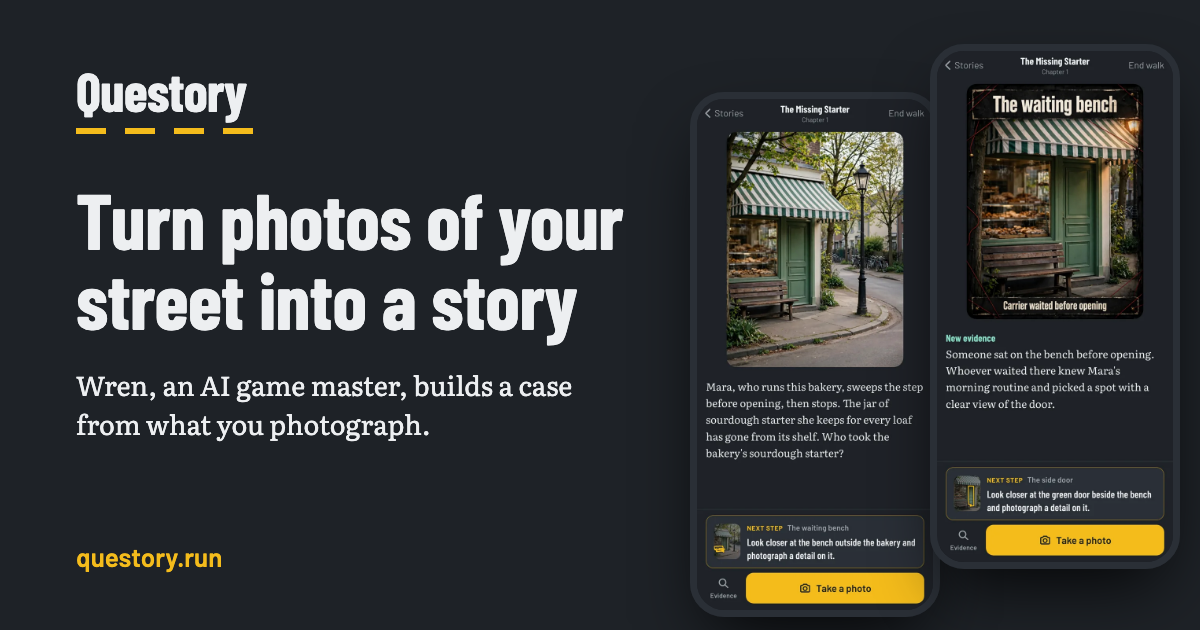
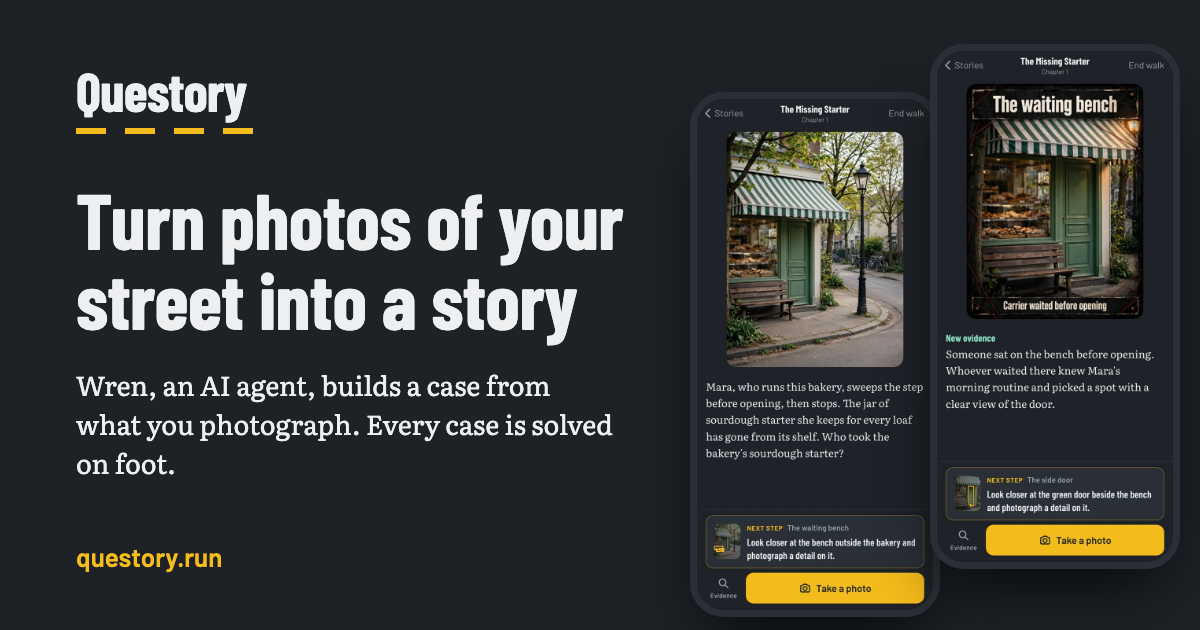
Call Wren an AI agent, define the game's terms, and show why it's played on foot
Wren is an AI agent in public text now, since "game master" is a gaming term. The
landing page and README add "Every case is solved on foot.", and the landing page
gets a Why on foot section: 31% of adults didn't get enough physical activity in
2022, and Pokémon GO's extra steps wore off within six weeks.

The pages say what a case, a turn, a piece of evidence and a lead are when they first
come up. Muse Spark, SAM 3.1 and Muse Image are Wren's subagents, in the README's
model table and on the diagram. The README's privacy notes say Meta may use what
it receives, as the Privacy page does. The link preview is drawn again with the new
line.

Changed region(s): [[0.0617, 0.6635, 0.5242, 0.6937], [0.185, 0.6032, 0.4933, 0.6333], [0.0617, 0.7238, 0.1542, 0.754]]

diff --git a/app/page.tsx b/app/page.tsx
@@ -11,19 +11,19 @@ const MOMENTS = [
     src: "/landing/opening.webp",
     alt: "A photo of a bakery on a street corner, with the opening of a case below it: the bakery's sourdough starter has gone, and the next step is a closer look at the bench outside.",
     title: "Your street starts the case",
-    text: "Take a photo of where you are, even indoors. Wren writes the opening around it, and then leads you outside.",
+    text: "Take a photo of where you are, even indoors. Wren turns it into the start of a case, then leads you outside.",
   },
   {
     src: "/landing/evidence.webp",
     alt: "The photo redrawn as an evidence card called The waiting bench, with Wren's note that someone sat there before the bakery opened.",
     title: "Follow the quests",
-    text: "A quest asks for a closer look, or sends you a short walk away. When your photo turns up something new, it becomes a piece of evidence.",
+    text: "Each quest asks for a photo of something, up close or a short walk away. A photo that moves the case forward becomes a piece of evidence.",
   },
   {
     src: "/landing/case.webp",
     alt: "The case so far: two pieces of evidence found, and ten more to find before the answer.",
     title: "Solve the case",
-    text: "Collect the evidence as you go, until it points to the answer.",
+    text: "Collect evidence over a few walks, until it points to the answer.",
   },
 ];
 
@@ -57,6 +57,12 @@ function Moment({ src, alt, title, text, number, delay }: (typeof MOMENTS)[numbe
   );
 }
 
+/** Why a game you play on foot, with the studies behind it. */
+const WHY = [
+  { value: "31%", label: "of adults worldwide didn't get enough physical activity in 2022." },
+  { value: "6 weeks", label: "until the extra steps from Pokémon GO wore off." },
+];
+
 const ROW =
   "-mx-4 mt-8 flex snap-x snap-mandatory gap-5 overflow-x-auto px-4 pb-4 md:mx-0 md:grid md:grid-cols-3 md:gap-10 md:overflow-visible md:px-0";
 
@@ -72,7 +78,7 @@ export default function Home() {
             Turn photos of your street into a story
           </h1>
           <p className="mt-5 max-w-xl font-story text-lg leading-relaxed md:text-xl">
-            Wren, an AI game master, builds a case from what you photograph.
+            Wren, an AI agent, builds a case from what you photograph. Every case is solved on foot.
           </p>
           <Link href="/play" className={`${BUTTON.primary} mt-7 w-full md:hidden`}>
             <CameraIcon className="h-6 w-6" />
@@ -96,14 +102,45 @@ export default function Home() {
         </ol>
       </section>
 
+      <section className="mt-14 md:mt-20" aria-labelledby="why-title">
+        <h2 id="why-title" className="font-sign text-2xl font-bold md:text-3xl">
+          Why on foot
+        </h2>
+        <div className="lane-line mt-3 w-24" aria-hidden="true" />
+        <dl className="mt-8 grid gap-3 sm:grid-cols-2 md:max-w-3xl md:gap-5">
+          {WHY.map((fact) => (
+            <div key={fact.value} className="flex flex-col rounded-[14px] bg-kerb px-5 py-4">
+              <dt className="order-2 mt-1 text-concrete text-pretty">{fact.label}</dt>
+              <dd className="order-1 font-sign text-5xl leading-none font-bold">{fact.value}</dd>
+            </div>
+          ))}
+        </dl>
+        <p className="mt-6 max-w-xl text-lg text-pretty">
+          A game can get people walking, but the effect fades within weeks. A Questory case runs over several walks, so
+          there&apos;s a reason to go out again. It&apos;s for anyone who would walk more with a reason to, alone or with a
+          friend who lives somewhere else.
+        </p>
+        <p className="mt-3 max-w-xl text-sm text-concrete">
+          Sources: Strain et al.,{" "}
+          <a href="https://doi.org/10.1016/S2214-109X(24)00150-5" className="underline underline-offset-4 hover:text-paint">
+            Lancet Global Health
+          </a>
+          , 2024. Howe et al.,{" "}
+          <a href="https://doi.org/10.1136/bmj.i6270" className="underline underline-offset-4 hover:text-paint">
+            BMJ
+          </a>
+          , 2016.
+        </p>
+      </section>
+
       <section className="mt-14 md:mt-20" aria-labelledby="friend-title">
         <h2 id="friend-title" className="font-sign text-2xl font-bold md:text-3xl">
           Play with a friend
         </h2>
         <div className="lane-line mt-3 w-24" aria-hidden="true" />
         <p className="mt-6 max-w-xl text-lg">
-          A case can have two players. You each follow your own lead on your own walk, and the evidence comes together
-          in one case.
+          A case can have two players. You each get a lead, your own trail of evidence to follow on your own walk, and
+          both trails end at the same answer.
         </p>
         <ul className={ROW}>
           {TOGETHER.map((moment) => (

diff --git a/app/how-it-works/page.tsx b/app/how-it-works/page.tsx
@@ -56,20 +56,21 @@ export default function HowItWorks() {
 
       <h1 className="mt-10 font-sign text-[2.5rem] leading-[1.05] font-bold md:mt-14 md:text-6xl">How it works</h1>
       <p className="mt-5 max-w-2xl font-story text-lg leading-relaxed md:text-xl">
-        Questory is a game you play on a walk. Wren, its game master, is an AI agent: it builds a case from your photos
-        and sends you out to find the evidence.
+        Questory is a game you play on a walk. Wren is the AI agent that runs it: it builds a case from your photos and
+        sends you out to find the evidence.
       </p>
 
       <section className="mt-12 md:mt-16" aria-labelledby="loop-title">
         <Heading id="loop-title">The game loop</Heading>
         <p className={TEXT}>
-          Each turn starts with a photo. Wren reads it, tells you what it means for the case and gives you a quest. A
-          quest asks for a closer look at something in your photo, or sends you a block or two away to find something.
-          Your photo of it starts the next turn.
+          The game is played in turns, and each turn is one photo. You take a photo, and Wren tells you what it means for
+          the case and gives you a quest: something to photograph next, up close or a block or two away. Your photo of it
+          starts the next turn.
         </p>
         <p className={TEXT}>
-          A photo that answers a quest becomes a piece of evidence, and the evidence leads to the answer. A case has
-          multiple chapters. You can stop after any photo, and your next photo picks the story up wherever you are.
+          A photo that moves the case forward becomes a piece of evidence, and the evidence leads to the answer. A case
+          has a few chapters, and finishing one ends your walk. You can stop after any photo, and your next photo picks
+          the story up wherever you are.
         </p>
       </section>
 
@@ -85,9 +86,9 @@ export default function HowItWorks() {
           what you found.
         </p>
         <p className={TEXT}>
-          Three other models work with Wren. Muse Spark checks Wren&apos;s lines against your photo and takes out
-          anything the photo doesn&apos;t show. Wren uses the other two as tools: SAM 3.1 outlines what a closer-look
-          quest points at, and Muse Image paints the evidence from your photo.
+          Wren has three subagents, each a different Meta model with one job. Muse Spark checks Wren&apos;s lines
+          against your photo and takes out anything the photo doesn&apos;t show. SAM 3.1 outlines what a closer-look quest
+          points at. Muse Image paints the evidence from your photo.
         </p>
       </section>
 
@@ -130,8 +131,8 @@ export default function HowItWorks() {
       <section className="mt-14 md:mt-20" aria-labelledby="two-title">
         <Heading id="two-title">Two players</Heading>
         <p className={TEXT}>
-          A shared case has two leads that come at the answer from different sides, such as how it was done and who
-          could have done it. Each player follows one lead without waiting for the other. Wren sees what both have found
+          A shared case has two leads, two trails of evidence that come at the answer from different sides, such as how
+          it was done and who could have done it. Each player follows one lead without waiting for the other. Wren sees what both have found
           and mentions a partner&apos;s find when it changes what yours means. A chapter&apos;s ending is written from
           everything both players found. Turns are saved under a short per-story lock, so two photos sent at once both
           count. If your friend hasn&apos;t joined by the time your part is done, you can play their lead too.

diff --git a/components/TurnDiagram.tsx b/components/TurnDiagram.tsx
@@ -23,8 +23,8 @@ const STOPS: { boxes: Box[]; memory?: boolean; loop?: boolean }[] = [
   },
   {
     boxes: [
-      { kicker: "Photo check", title: "Muse Spark", text: `Takes out anything ${GAME_MASTER} describes that the photo doesn't show.` },
-      { kicker: "Where to look", title: "SAM 3.1", text: "Outlines what a closer-look quest points at." },
+      { kicker: "Subagent", title: "Muse Spark", text: `Takes out anything ${GAME_MASTER} describes that the photo doesn't show.` },
+      { kicker: "Subagent", title: "SAM 3.1", text: "Outlines what a closer-look quest points at." },
     ],
   },
   {
@@ -32,14 +32,14 @@ const STOPS: { boxes: Box[]; memory?: boolean; loop?: boolean }[] = [
     loop: true,
     boxes: [
       {
-        kicker: "Saved",
+        kicker: "Memory",
         title: "Story memory",
         text: "The hidden plan, which real thing is which, and the facts so far.",
       },
     ],
   },
   {
-    boxes: [{ kicker: "Evidence", title: "Muse Image", text: "When the photo turns up evidence, paints it from your photo." }],
+    boxes: [{ kicker: "Subagent", title: "Muse Image", text: "When the photo turns up evidence, paints it from your photo." }],
   },
 ];
 

diff --git a/lib/site.ts b/lib/site.ts
@@ -3,7 +3,7 @@ import type { Metadata } from "next";
 export const GITHUB_URL = "https://github.com/QiaoyuYang/questory";
 
 export const SITE_DESCRIPTION =
-  "Turn photos of your street into a story. An AI game master builds a case from what you photograph.";
+  "Turn photos of your street into a story. An AI agent builds a case from what you photograph, and every case is solved on foot.";
 
 const PREVIEW_IMAGE = {
   url: "/link-preview.png",

diff --git a/README.md b/README.md
@@ -4,7 +4,7 @@
 
 **Turn photos of your street into a story.**
 
-Wren, an AI game master, builds a case from what you photograph.
+Wren, an AI agent, builds a case from what you photograph. Every case is solved on foot.
 
 Play at [questory.run](https://questory.run)
 
@@ -20,27 +20,31 @@ Questory is made for phones. Open [questory.run](https://questory.run) on your p
 
 ## How to play
 
+A case is a question with a hidden answer, like where a bakery's sourdough starter went. You solve it by photographing what Wren asks for.
+
 1. Pick a theme for the story.
 2. Take a photo of where you are. Wren writes the opening of the case around it, then leads you outside if you aren't already.
-3. Follow the quests to find evidence. A quest asks for a closer look at something in your last photo, or sends you a block or two away to find something.
-4. Collect evidence until it points to the answer. A case has multiple chapters. You can stop at any time, and your next photo picks the story up wherever you are.
+3. Follow the quests to find evidence. A quest asks for a closer look at something in your last photo, or sends you a block or two away to find something. A photo that moves the case forward becomes a piece of evidence.
+4. Collect evidence until it points to the answer. A case has multiple chapters, and finishing one ends your walk. You can stop at any time, and your next photo picks the story up wherever you are.
 
-To play with a friend, choose "With a friend" and send them the link. You each follow your own lead on your own walk, at the same time or not, and a chapter ends once you have both finished your part.
+To play with a friend, choose "With a friend" and send them the link. The case gets two leads, one for each of you: two trails of evidence that end at the same answer. You each follow yours on your own walk, at the same time or not, and a chapter ends once you have both finished your part.
 
 ## How it works
 
-Wren is an AI agent. It plans each case, reads every photo with what it remembers of the story, decides what happens next and changes its plan when your photos stop fitting it. Wren can't walk, so you do, and its quests say where to look.
+Wren is an AI agent. It plans each case, reads every photo with what it remembers of the story, decides what happens next and changes its plan when your photos stop fitting it. Wren can't walk, so you do, and its quests say where to look. It has three subagents, each with one job.
 
 Questory is a Next.js 16 app that uses four models from the Meta Model API:
 
-| Model | Used for |
-| :--- | :--- |
-| Muse Wonder | Wren itself: planning the case, reading each photo and writing the story and quests |
-| Muse Spark | Checking Wren's lines against the photo |
-| SAM 3.1 | Outlining what a closer-look quest points at |
-| Muse Image | Redrawing photos that turn up evidence as evidence cards |
+| Model | Role | Used for |
+| :--- | :--- | :--- |
+| Muse Wonder | Agent | Wren itself: planning the case, reading each photo and writing the story and quests |
+| Muse Spark | Subagent | Checking Wren's lines against the photo |
+| SAM 3.1 | Subagent | Outlining what a closer-look quest points at |
+| Muse Image | Subagent | Redrawing photos that turn up evidence as evidence cards |
 
 ### A turn
+
+A turn is one photo and everything Wren does with it.
 
 <img src="docs/turn.png" alt="One turn: your photo goes to Muse Wonder, then to Muse Spark and SAM 3.1 at the same time, then into the story memory, and Muse Image paints any evidence. Wren reads the memory again on the next photo.">
 
@@ -73,7 +77,7 @@ A shared case has two leads that come at the answer from different sides, such a
 
 - There is no account. A random ID in a cookie links your stories to your browser.
 - The app never asks for your location. Photos are re-encoded on the phone before upload, which removes their location data, and walk times come from when photos were sent.
-- Photos go to the Meta Model API and are then stored in an encrypted private bucket, served only through unguessable links.
+- Photos go to the Meta Model API, and Meta may use what it receives to improve its products. They are then stored in an encrypted private bucket, served only through unguessable links.
 - An invite link shows only its own case, and a case has room for one friend, so a forwarded link can't let a third person in.
 - Deleting a story also deletes its photos and evidence cards.
 
@@ -87,7 +91,7 @@ cp .env.example .env.local   # add MODEL_API_KEY to use the real models
 npm run dev
 ```
 
-Open http://localhost:3000. Without `MODEL_API_KEY`, the app uses a scripted game master, so you can work on the interface without spending credit. Without the Appwrite settings, it saves stories as files in `.data/`. `GET /api/health` shows which mode, models and storage are in use. The other settings, such as the daily call limits, are documented in [`.env.example`](.env.example).
+Open http://localhost:3000. Without `MODEL_API_KEY`, Wren reads from a script, so you can work on the interface without spending credit. Without the Appwrite settings, it saves stories as files in `.data/`. `GET /api/health` shows which mode, models and storage are in use. The other settings, such as the daily call limits, are documented in [`.env.example`](.env.example).
 
 To try it on a phone on the same Wi-Fi, open the Network address that `npm run dev` prints and scan the code it shows. Anyone on that network can reach the server, so stop it when you're done if a real key is set.
 
